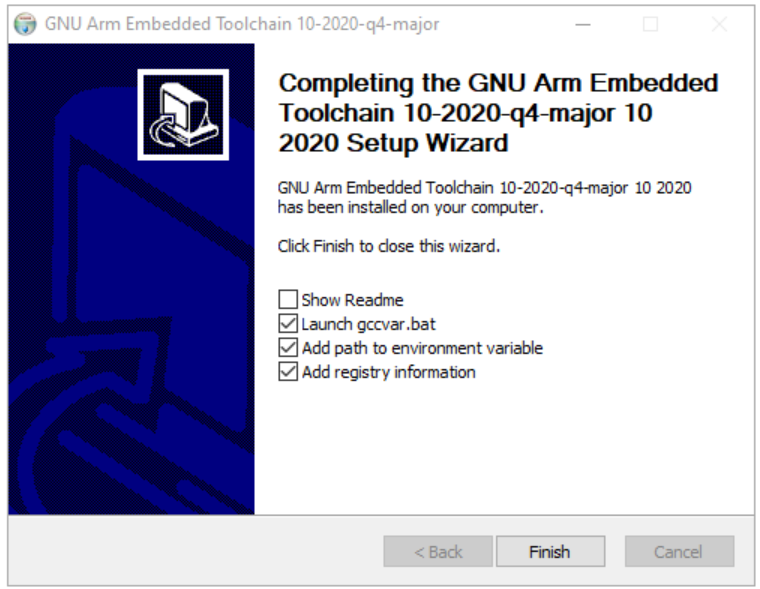
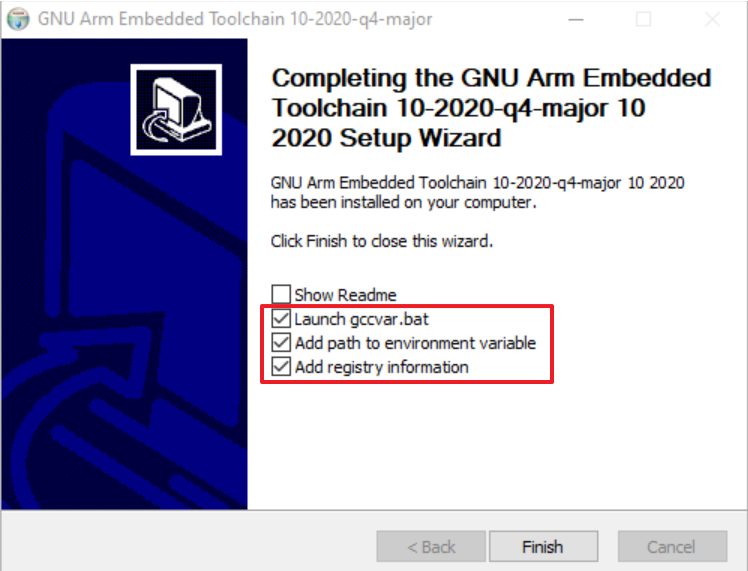
Surf 5 fw-examples.md

Changed region(s): [[0.0, 0.0, 1.0, 1.0]]

diff --git a/docs/Product/Open-Source-Hardware/surf5/getting-started/fw-examples.md b/docs/Product/Open-Source-Hardware/surf5/getting-started/fw-examples.md
@@ -208,8 +208,57 @@ If you have completed the four steps above perfectly, try building the project a
 
 <br /><br /><br /><br />
 
+<span style={{ backgroundColor: '#f7ddbe' }}>GCC 10.x.x arm-none-eabi' compiler is not appearing</span>
 
-<span style={{ backgroundColor: '#f7ddbe' }}>"If building Surf 5 Project still doesn't work in VS Code"</span>
+
+This issue may be due to the compiler's path not being added to the environment variables during installation. Follow the steps below to add the path of the compiler.
+
+<br />
+<br />
+
+Search for 'View advanced system settings' in the Windows search bar and click on it.
+
+<img src="/img/osh/surf5/edit_sys_properties1.png" width="700" /><br /><br /><br />
+
+In System Properties, click on 'Environment Variables ...' below.
+
+<img src="/img/osh/surf5/edit_sys_properties2.png" width="700" /><br /><br /><br />
+
+Select 'Path' in the 'User variables for xxx' category and press 'Edit...'
+
+<img src="/img/osh/surf5/edit_sys_properties3.png" width="700" /><br /><br /><br />
+
+
+Press 'New' to add the toolchain directory and press 'OK'.
+
+<img src="/img/osh/surf5/edit_sys_properties4.png" width="700" /><br /><br /><br />
+
+
+If you have added the variable, restart your PC or laptop.
+
+<img src="/img/osh/surf5/edit_sys_properties5.png" width="700" /><br /><br /><br />
+
+In 'Developer Command Prompt for VS 2022', you must call the code command to run VS Code.
+And in VS Code, press 'F1' and click on 'CMake: Select a Kit'.
+
+<img src="/img/osh/surf5/edit_sys_properties6.png" width="700" /><br /><br /><br />
+
+Click on [Scan for Kits].
+
+<img src="/img/osh/surf5/edit_sys_properties7.png" width="700" /><br /><br /><br />
+
+
+Check the added compiler below and build it.
+
+<img src="/img/osh/surf5/edit_sys_properties8.png" width="700" /><br /><br /><br />
+
+
+<br /><br /><br /><br />
+
+
+
+
+<span style={{ backgroundColor: '#f7ddbe' }}>If building Surf 5 Project still doesn't work in VS Code</span>
 
 
 Enter the following path, then delete the Code director.
